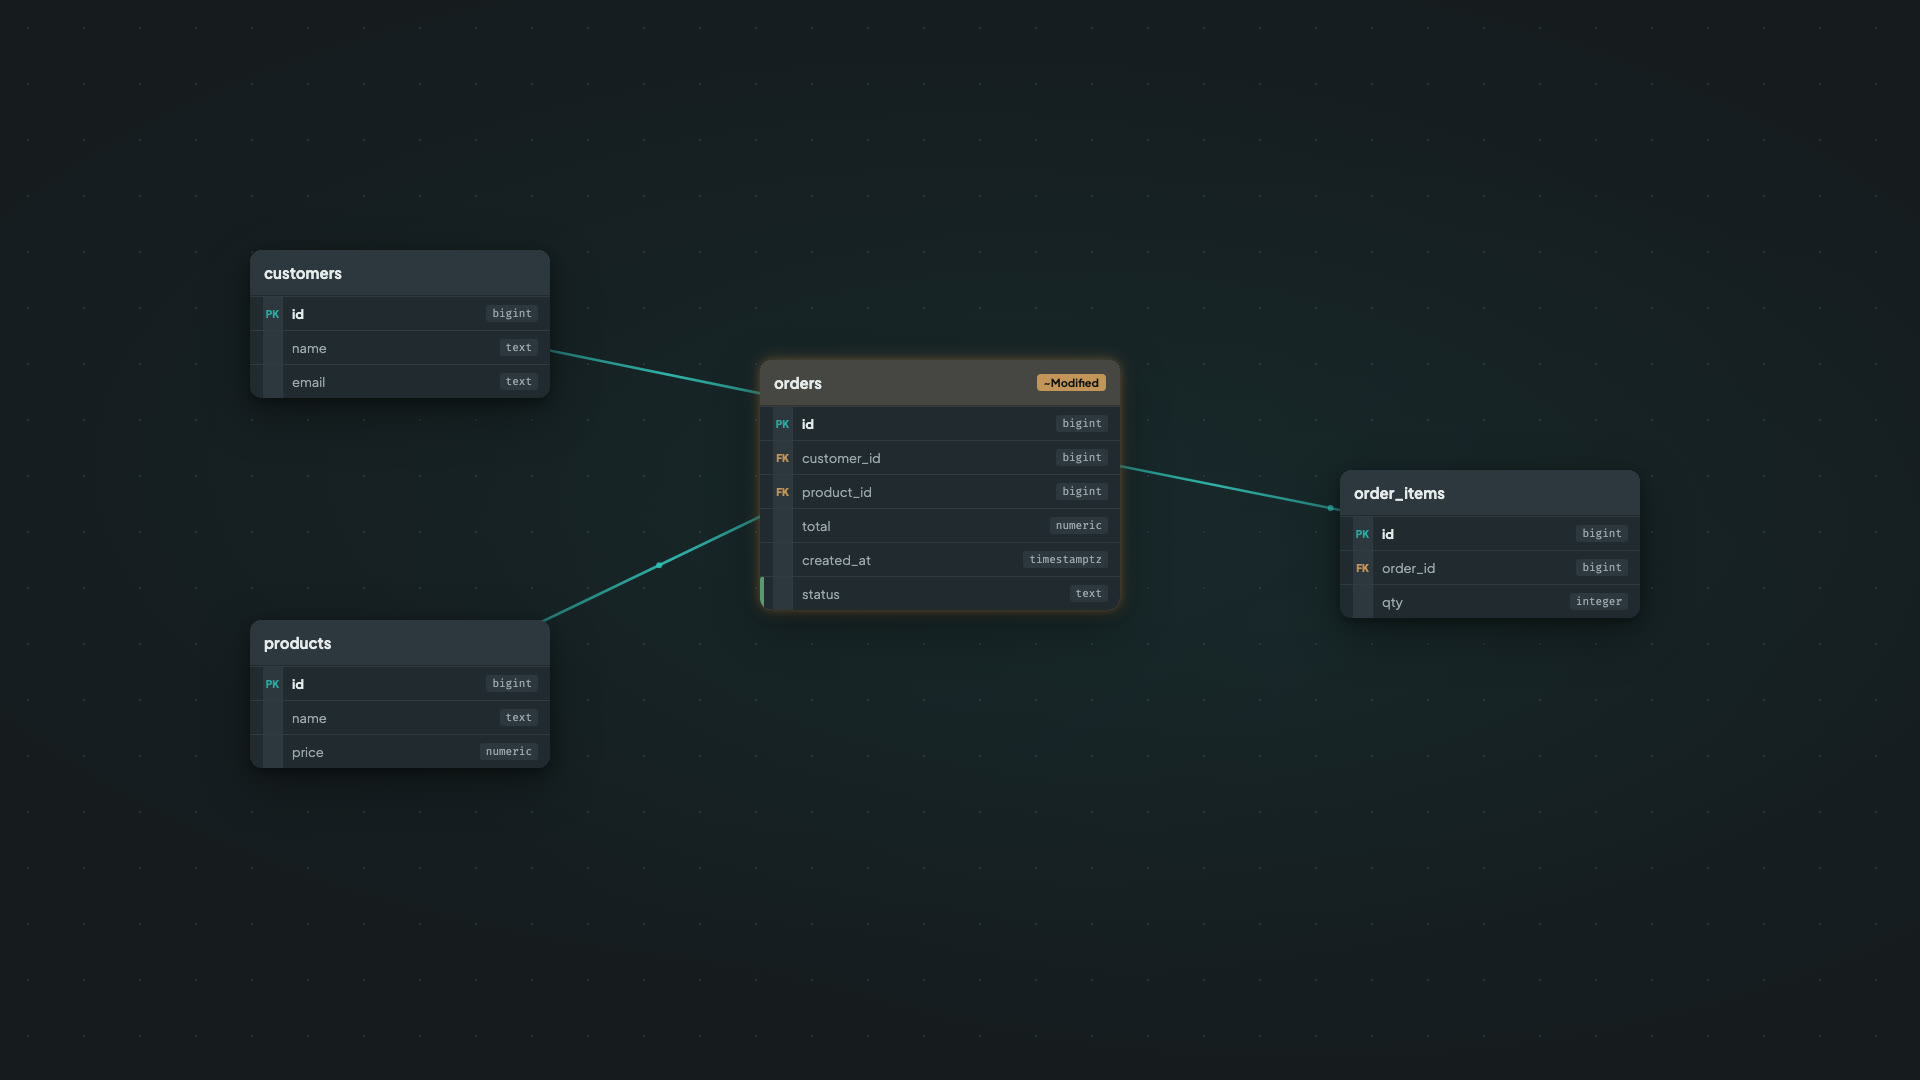
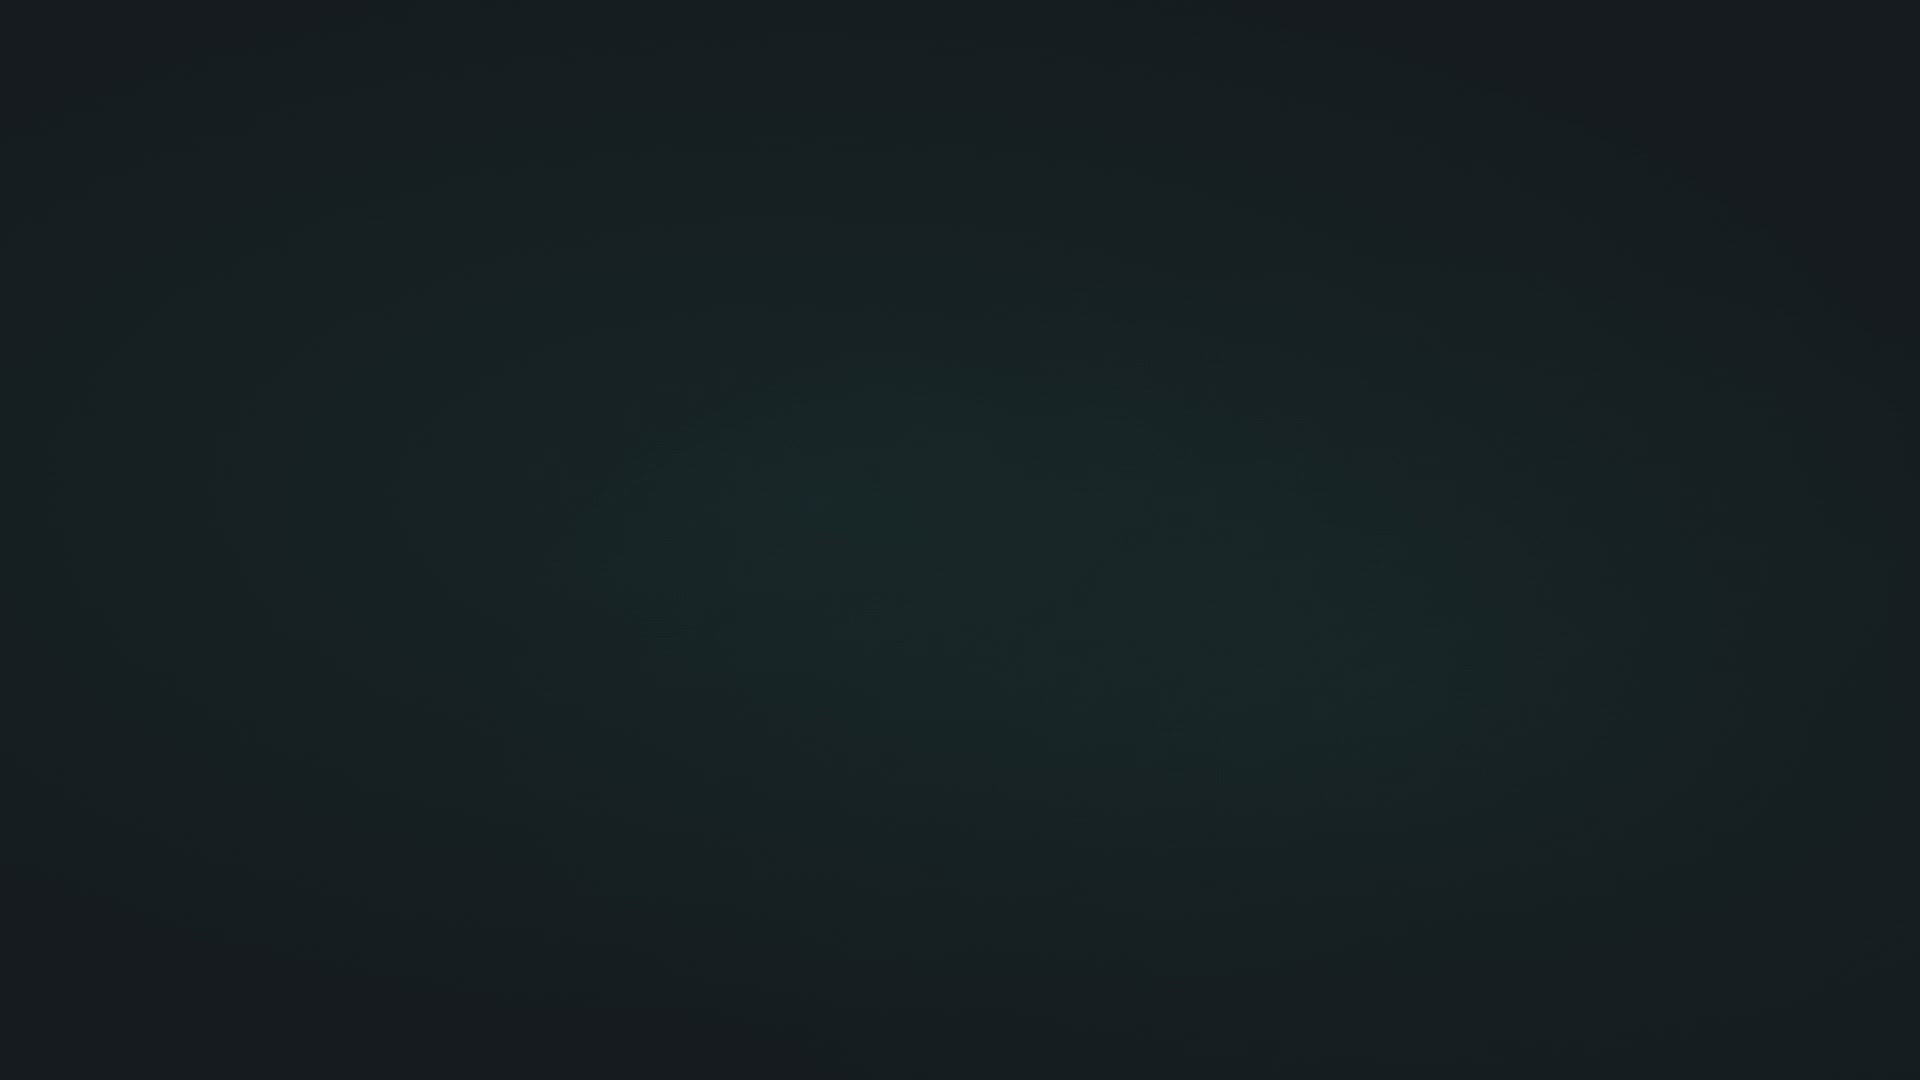
fix(website): 히어로 poster를 영상 첫 프레임으로 교체 — ERD 플래시 근본 해결
직전 커밋(d36d36e)의 오버레이 접근은 오진이었다. 진짜 원인은 poster
이미지(hero-poster-v2.jpg) 자체가 영상 후반부 ERD 완성 장면이라, 영상
재생 전까지 항상 ERD가 보였던 것. poster를 영상 실제 첫 프레임(빈 어두운
인트로 화면, ffmpeg -ss 0)으로 교체해 시작 지점과 일치시켰다. 불필요해진
JS 오버레이/CSS는 원래의 단순 <video poster> 구조로 되돌림.

diff --git a/website-planning/site-draft/index.html b/website-planning/site-draft/index.html
@@ -67,11 +67,7 @@ img{max-width:100%;display:block}
 .film-hero{min-height:100vh;display:flex;align-items:center;justify-content:center;padding:88px var(--gutter) var(--space-16);overflow:hidden}
 .film-hero .hero-film{position:relative;width:100%;max-width:var(--maxw-wide);border-radius:var(--radius-lg);overflow:hidden;border:1px solid var(--border);box-shadow:0 0 0 1px rgba(43,168,160,.12),0 40px 120px -30px rgba(43,168,160,.35),var(--shadow-lg);background:var(--bg-canvas)}
 .film-hero .hero-film::after{content:"";position:absolute;inset:0;pointer-events:none;border-radius:inherit;box-shadow:inset 0 1px 0 rgba(255,255,255,.06)}
-.hero-video{display:block;width:100%;height:auto;aspect-ratio:16/9;object-fit:cover;opacity:0;transition:opacity .35s var(--ease)}
-/* 영상 실제 재생(playing) 전까지 poster 이미지를 위에 깔아 캐시 중간 프레임 플래시를 가린다. */
-.hero-video.is-playing{opacity:1}
-.hero-poster{position:absolute;inset:0;width:100%;height:100%;object-fit:cover;pointer-events:none;transition:opacity .35s var(--ease)}
-.hero-poster.is-hidden{opacity:0}
+.hero-video{display:block;width:100%;height:auto;aspect-ratio:16/9;object-fit:cover}
 /* 스크롤 유도 힌트 */
 .scroll-hint{position:absolute;left:50%;bottom:32px;transform:translateX(-50%);display:flex;flex-direction:column;align-items:center;gap:8px;color:var(--text-tertiary);font-size:12px;font-family:var(--font-mono);letter-spacing:.05em;animation:hintbob 2s var(--ease) infinite}
 .scroll-hint svg{width:20px;height:20px}
@@ -282,23 +278,6 @@ p.lede em{font-style:normal;color:var(--text-primary);font-weight:600}
            모든 브라우저가 H.264를 재생하므로 WebM 없이 충분하다. -->
       <source src="./assets/hero-demo-v2.mp4" type="video/mp4">
     </video>
-    <!-- poster 오버레이: 영상이 실제 재생(playing) 시작할 때까지 첫 프레임 이미지를 덮어
-         새로고침 시 캐시된 중간 프레임이 순간 노출되는 플래시를 차단한다. -->
-    <img class="hero-poster" src="./assets/hero-poster-v2.jpg" alt="" aria-hidden="true">
-    <script>
-      // 영상이 실제로 첫 프레임을 그리기 시작(playing)하면 poster를 페이드아웃하고 영상을 페이드인.
-      (function(){
-        var film = document.currentScript.closest('.hero-film');
-        var video = film.querySelector('.hero-video');
-        var poster = film.querySelector('.hero-poster');
-        function reveal(){
-          video.classList.add('is-playing');
-          poster.classList.add('is-hidden');
-        }
-        if (video.readyState >= 3 && !video.paused) reveal();
-        video.addEventListener('playing', reveal, { once: true });
-      })();
-    </script>
   </div>
   <div class="scroll-hint" aria-hidden="true">SCROLL<svg viewBox="0 0 24 24" fill="none"><path d="M12 5v14m-6-6 6 6 6-6" stroke="currentColor" stroke-width="1.6"/></svg></div>
 </section>